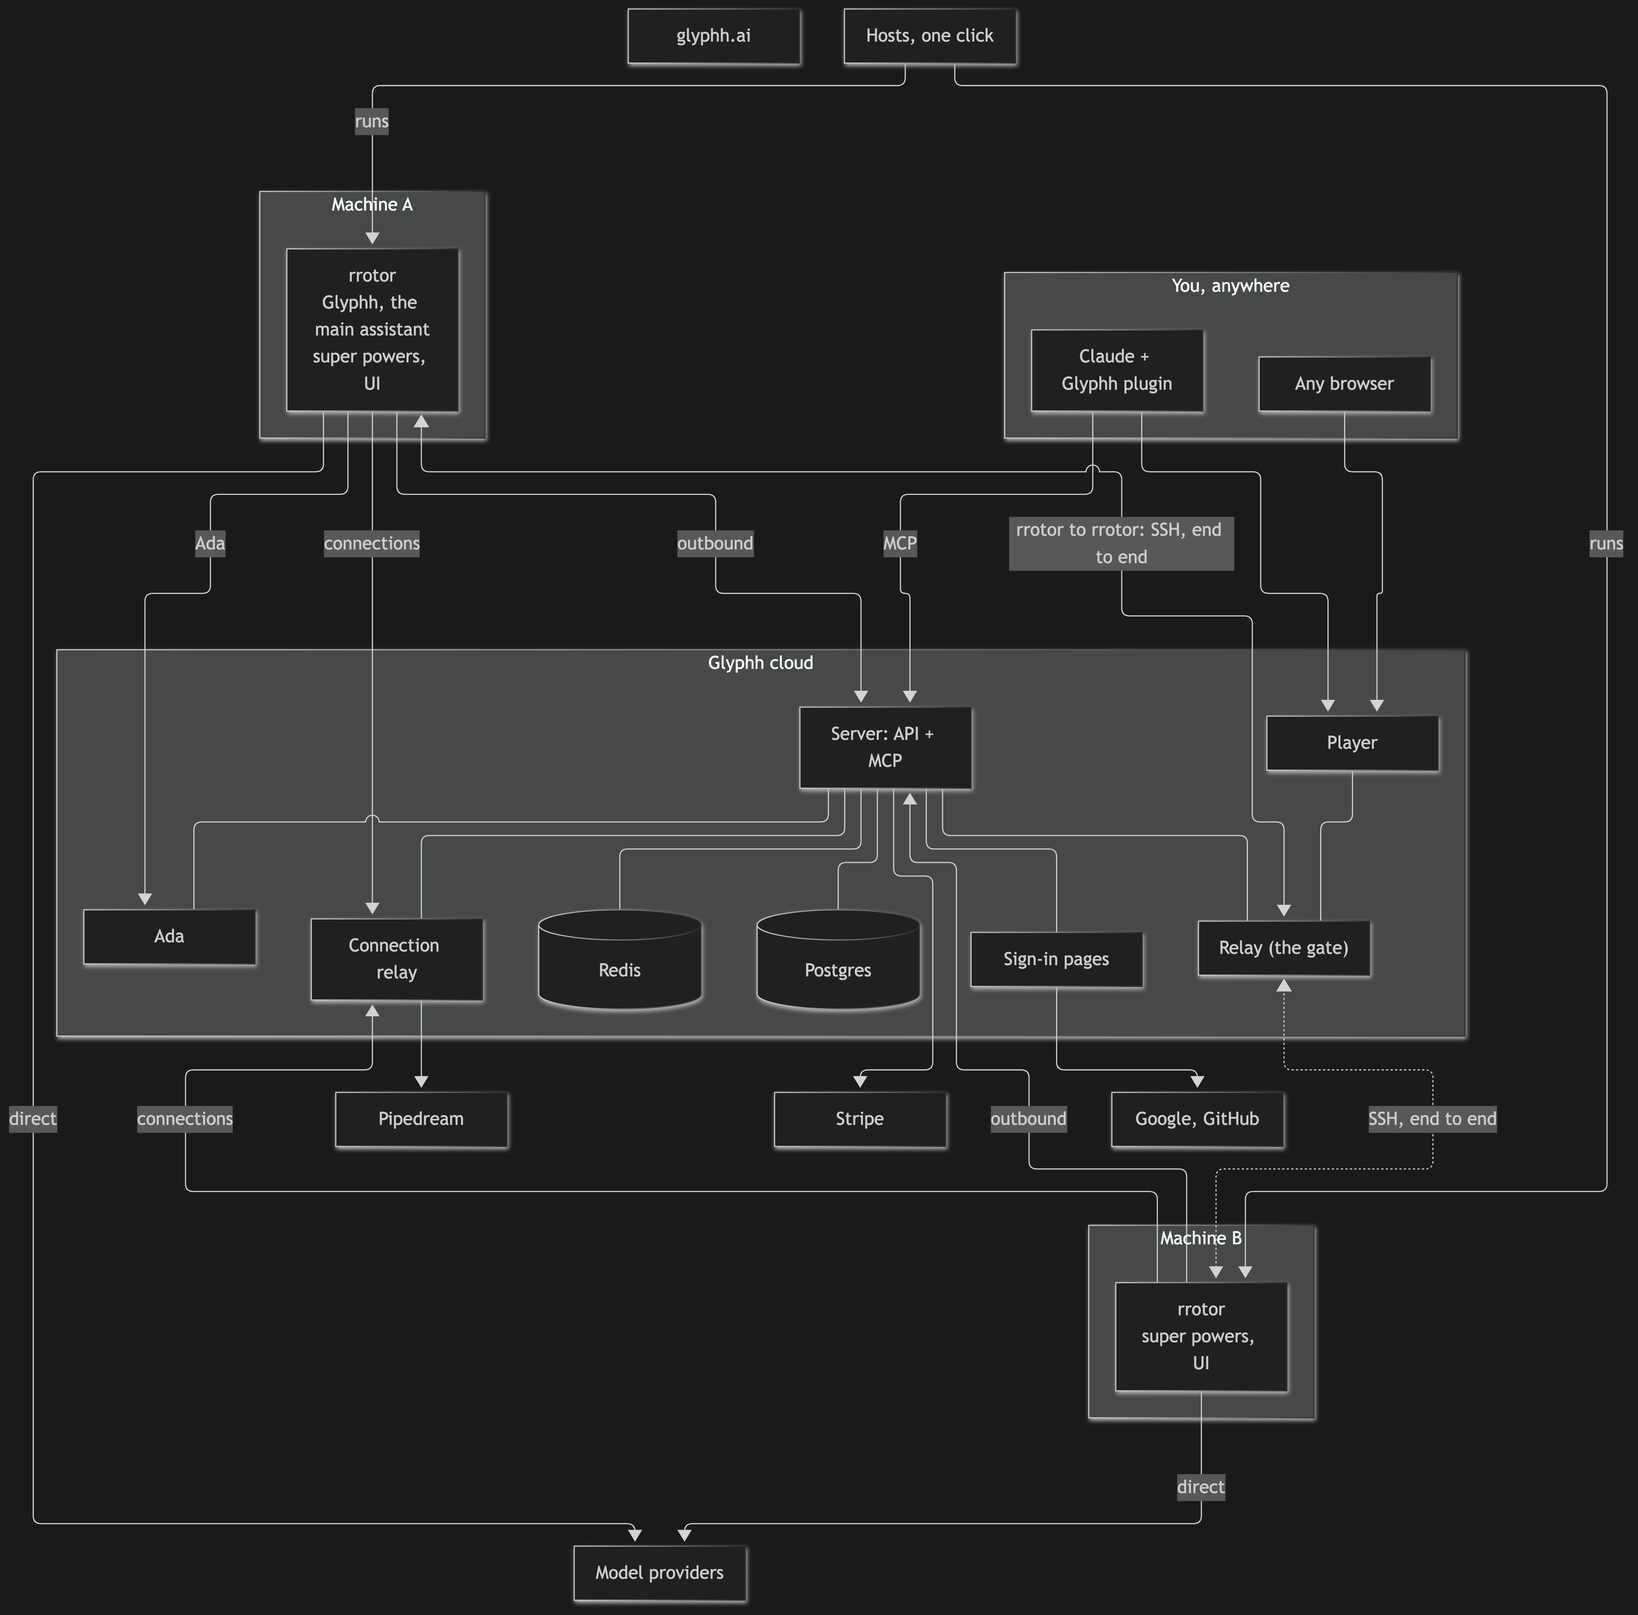
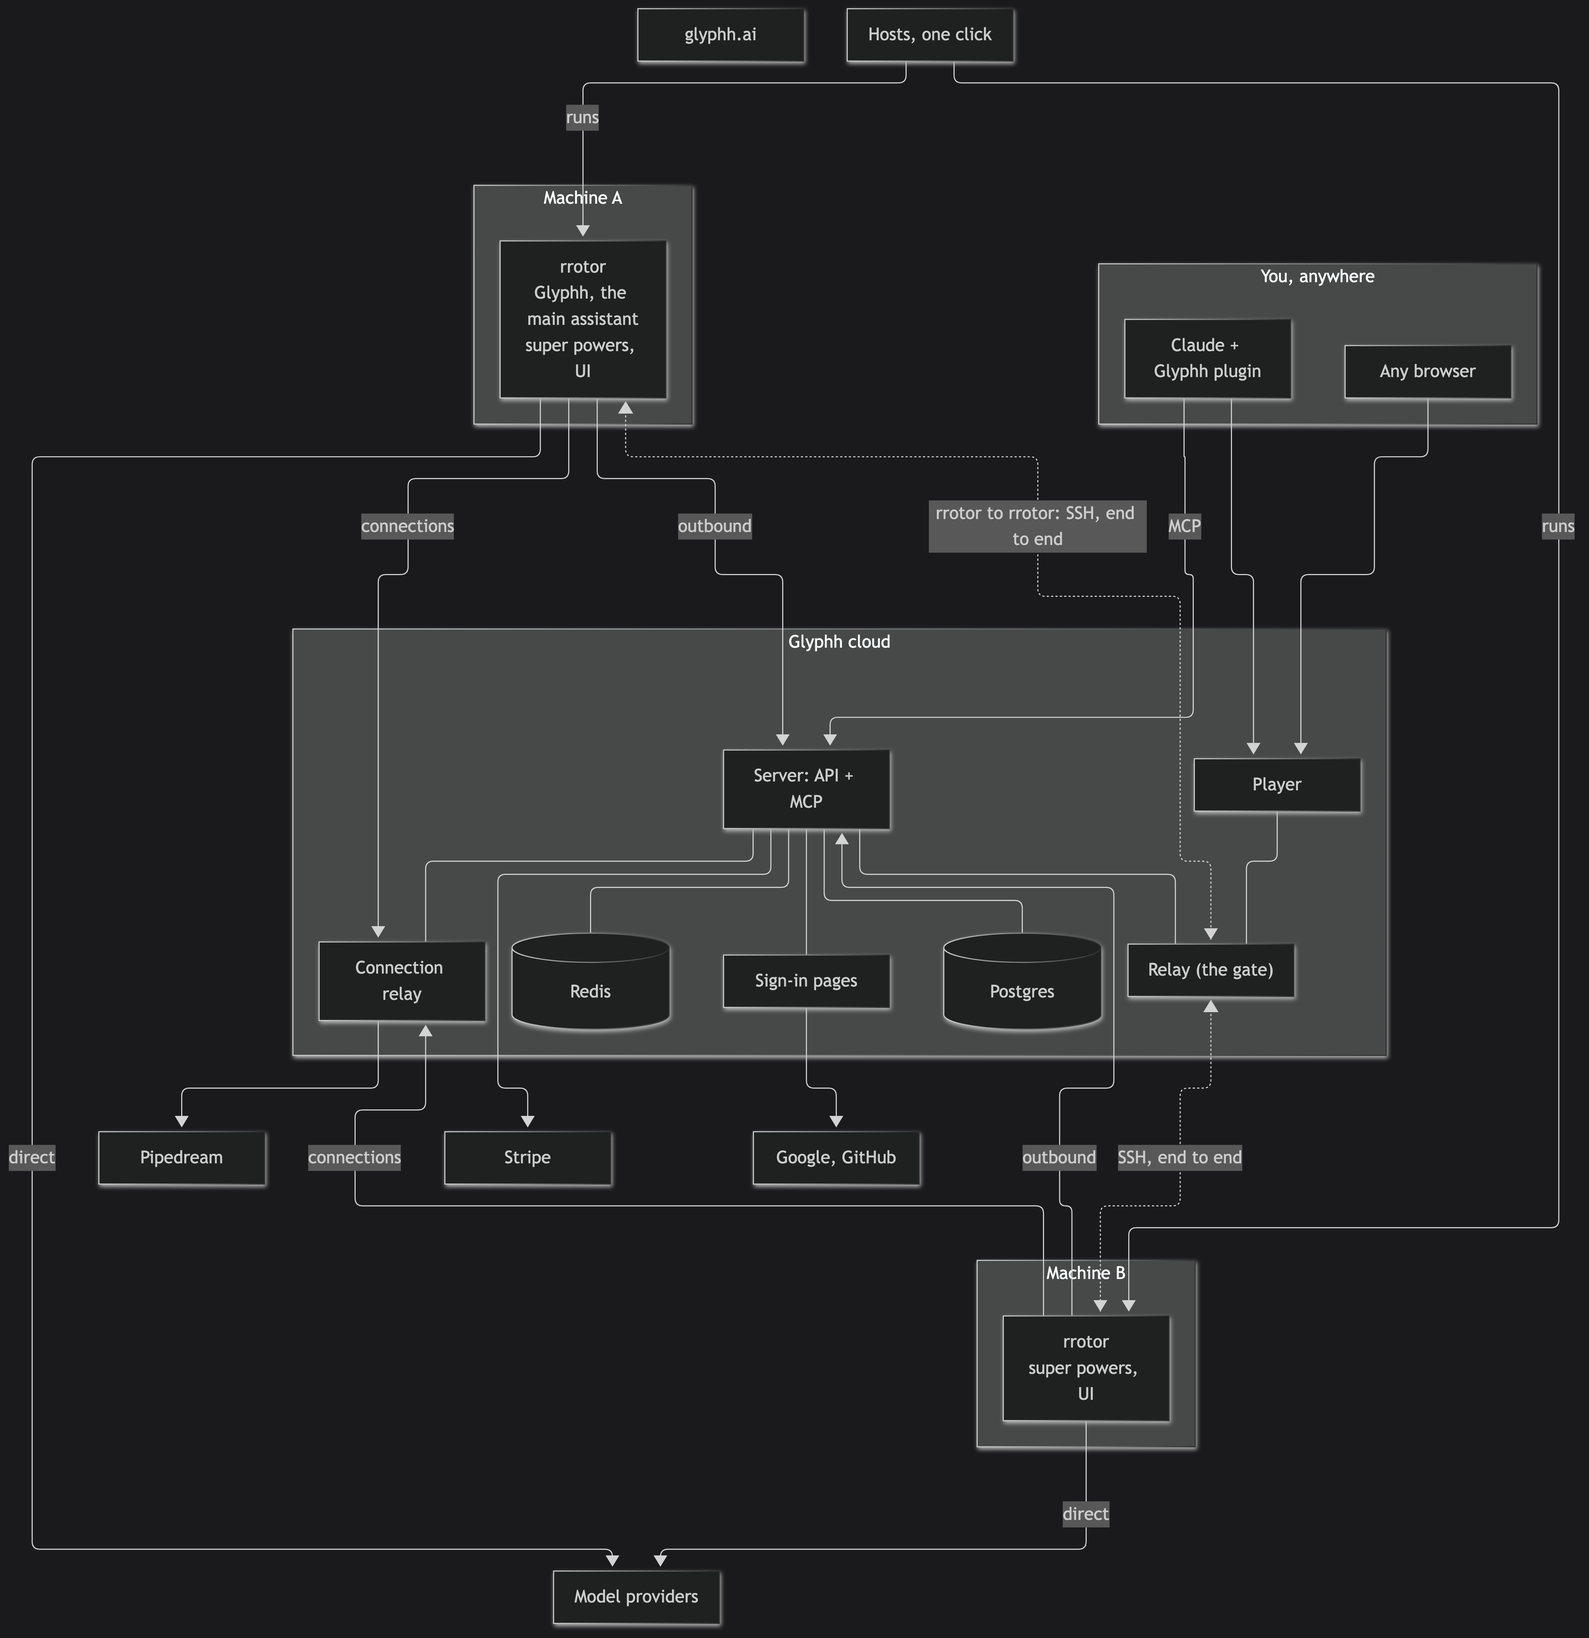
Memory and Ada out, for now: Glyphh keeps no memory of its own (a member adds it as a power), Ada comes later

diff --git a/docs/data-model.md b/docs/data-model.md
@@ -99,7 +99,6 @@ erDiagram
         bool limit_connections "true = only the org's allowed connections"
         text image_key "the org's picture, in object storage"
         bool member_api_keys "members may make their own API keys"
-        jsonb memory_policy "per lane (search, capture, sensitive): member, on or off"
         timestamptz created_at
     }
 
@@ -152,12 +151,6 @@ erDiagram
         text voice_mode "off, push_to_talk, continuous"
         bool voice_autoplay
         bool voice_brief "spoken replies kept short"
-        bool memory_search "search and use past sessions"
-        bool memory_capture "make memory from sessions"
-        bool memory_sensitive "include sensitive topics"
-        uuid embeddings_model_id FK "the model memory is indexed with; null = off"
-        timestamptz memory_policy_accepted_at
-        text memory_policy_version
         bool sandbox_strict "runs reach only the allowed hosts"
         text[] allowed_hosts "hosts every sandboxed run may reach"
         timestamptz updated_at
@@ -167,7 +160,7 @@ erDiagram
         uuid id PK
         uuid org_id FK
         uuid user_id FK "whose it is: every power is one user's, for now"
-        text kind "model, connection, folder, browser, ada, skill, task, plugin, loop"
+        text kind "model, connection, folder, browser, skill, task, plugin, loop"
         text name "unique for its owner"
         timestamptz disabled_at "set while a limit leaves it out: it stops working and can only be deleted; cleared when allowed again"
         text disabled_reason "which limit left it out"
@@ -380,19 +373,16 @@ erDiagram
         uuid id PK
         uuid org_id FK
         uuid user_id FK "whose call it was"
-        text kind "connection or ada"
-        uuid power_id FK "the connection power, or the Ada model power"
-        text service "a connection's service (gmail, slack, ...); for Ada, the model's id; kept as called"
-        text tool "the tool or Ada operation: gmail-send-email, query, record, ..."
+        uuid power_id FK "the connection power"
+        text service "a connection's service (gmail, slack, ...); kept as called"
+        text tool "the tool called: gmail-send-email, ..."
         uuid super_power_id FK "the super power that called it"
         uuid machine_id FK "the machine it ran on"
         uuid run_id FK "the run it was part of"
         text status "ok, error, refused"
         text error "the reason, for error and refused"
         int duration_ms "the time the call took, timed by the server"
-        int input_tokens "Ada: the arguments as JSON, counted by the server"
-        int output_tokens "Ada: the result, counted by the server"
-        int credits "connection: max(1, ceil(seconds / 30)); Ada: its tokens at the Ada price; 0 when refused"
+        int credits "max(1, ceil(seconds / 30)) for a call made; 0 when refused"
         int request_bytes
         int response_bytes
         timestamptz started_at
@@ -580,7 +570,7 @@ A user belongs to one org and has one role in it:
 
 The profile is the user's first name, last name, email and profile image. A Google or GitHub sign-in finds the user by the provider's own id for them (below, Signing in), never by email alone. A user is in at most one team (`team_id`).
 
-**user_settings** holds the member's own settings from the old app's Settings pages: theme, notifications, how new sessions start, voice, memory and its consent, and the sandbox's allowed hosts. What only ever applied to the desktop app's windows (workspaces, tabs, layouts, the dock, window sizes) is gone; a machine's own settings (its granted folders, its local ports, its shell) live on the machine.
+**user_settings** holds the member's own settings from the old app's Settings pages: theme, notifications, how new sessions start, voice, and the sandbox's allowed hosts. Glyphh keeps no memory of its own; memory is a power a member adds if they want it. What only ever applied to the desktop app's windows (workspaces, tabs, layouts, the dock, window sizes) is gone; a machine's own settings (its granted folders, its local ports, its shell) live on the machine.
 
 ## Teams: limiting models and connections
 
@@ -628,7 +618,6 @@ Every power is a row in `powers` (who owns it, its kind and name), and one row i
 - **A model** is a provider, the provider's model id and the API key (an optional base URL for providers that need one). rrotor calls the provider directly with that key: Glyphh never sits in the call, never sees its rates or prices, and never counts its tokens. What a model costs is between the person and their provider. A customer who wants limits or access rules puts their own AI gateway in front, through the base URL.
 - **A connection** is a user's own account at Pipedream: the service it connects to (Gmail, Slack, ...) and the account id. Pipedream calls a service an app; Glyphh says service, because an app is something else here. Glyphh stores no sign-in for it: Pipedream holds the account and its tokens, under the Glyphh user's id as Pipedream's external user id. Linking one: the server asks Pipedream for a connect token for that user, and Pipedream's own page does the sign-in. Using one: the loop reaches Pipedream's MCP server (`remote.mcp.pipedream.net/v3`) with the Pipedream project, environment, service (`x-pd-app-slug`) and the user's id as headers, and a short-lived Pipedream access token the server mints for the run (Glyphh's Pipedream client credentials never leave the server). Only Glyphh's connections are used: a super power's loop gets exactly its connections, nothing of the loop's own.
 - **A folder** is a path on one machine (`machine_id`): the same path on two machines is two folders, and a folder grant says read or write.
-- **An Ada model** is a member's own, like every power: the model's id on Glyphh's Ada service (`am_...`). Its kernel and records stay on Glyphh's servers; a super power is granted it, and a task calls it through the server, billed per token. Shared through Discover like any power.
 - **A browser** is a browser profile on one rrotor: its cookies and signed-in sessions live there and never leave that machine or reach the server. It is granted like a folder, so one super power's signed-in sites are never another's.
 - **Skills, tasks and plugins** are bundles of files in object storage (`bundle_key`); whether each save keeps a version is still open.
 - **A secret** (a key, a sign-in) is encrypted at rest, never returned after it is saved, and handed only to the member's own runtime when a super power runs.
@@ -699,7 +688,7 @@ What Pipedream charges Glyphh (Connect, Startup plan): $99 a month billed annual
 
 ## Usage
 
-Every usage event is logged in one place: the server, which every billed call passes through. Two kinds are billed: a connection call (rrotor → connector → server → Pipedream), a cost Glyphh pays, and an Ada call (rrotor → server → Ada, our own kernel), which costs Glyphh only its compute. Every one goes through the server, so the server sees each call whole: who, through which connection, from which super power, on which machine, how long, and what it cost. Nothing is reported by the runtime about itself, so a modified rrotor cannot under-report.
+Every usage event is logged in one place: the server's connection relay. A connection call is the only thing billed, a cost Glyphh pays, and every one goes through the server (rrotor → connector → server → Pipedream), so the server sees each call whole: who, through which connection, from which super power, on which machine, how long, and what it cost. Nothing is reported by the runtime about itself, so a modified rrotor cannot under-report.
 
 One call, as the relay handles it:
 
@@ -711,7 +700,6 @@ The check runs before the cost is known, so calls already in flight when the bal
 
 - **usage_events** is append only: never updated, never deleted by a request. It holds what was called and how it went, **never what went through it**: no arguments, no results, no message bodies. Those are the member's own data, and they stay between the runtime and Pipedream.
 - **Model calls are not usage.** They go straight to the provider on the member's key, and Glyphh never sees them. Jev is one of them: a TypeSafe model the member adds with their own key, never on Glyphh's key, never through the server, never charged.
-- **An Ada call is priced on its tokens:** input is its arguments as JSON, output its result, both counted by the server with one tokenizer; the cost is the larger of the tokens at the Ada price and a floor per call. The old server's prices are the start: Ada $2 per million tokens in and $10 out with a $0.0005 floor; a published Ada model a cent per million each way. How that price is stated in credits is still open.
 - **Operational logs are separate:** request logs and traces go to OpenTelemetry, tagged by org; they are not billing and do not decide a charge.
 - **Size:** the table is partitioned by month on `created_at`, indexed by org and time, and by org, user and time, so every page reads one org's range.
 

diff --git a/docs/status.md b/docs/status.md
@@ -7,6 +7,7 @@ As of 2026-10-11. The rule: the data model is drawn first, then built in the ord
 - **Server** (`glyphh-ai/server`): Python, FastAPI, SQLAlchemy over asyncpg, Postgres 17. One schema applied at boot under an advisory lock (no migrations until relaunch). `GET /v1/health` and the stateless MCP endpoint at `/mcp`. CI runs ruff and the tests in Docker on every push and publishes the image on main.
 - **Tables:** `plans` (seeded: Free, Solo, Basic, Pro, Enterprise, with their Stripe prices), `orgs` (Glyphh, the parent org, seeded), `users`, `tokens`.
 - **SDKs** (`glyphh-ai/glyphh`): TypeScript and Python, generated from the server's OpenAPI spec, with health as the first call; both suites run in Docker against the server.
+- **Not in Glyphh for now:** memory (a member adds it as a power if they want it) and Ada (later).
 - **Docs:** this site (architecture, data model, this page).
 
 The repos `glyphh-ai/app` and `glyphh-ai/platform` are no longer needed: the UI lives in rrotor, the sign-in pages in the server.
@@ -26,7 +27,7 @@ On the [data model](data-model.md), in the order they were drawn:
 - **People and machines:** `invites`, `machines` (with where they run, their SSH key, fingerprint and shell switch), `machine_sign_ins`, `fence_events` (what rrotor reports when a run reaches past its fence), `api_keys`; folders are on a machine, and folder grants are read or write.
 - **Signing in and Stripe:** `sign_in_identities` (Google and GitHub by the provider's own id), `oauth_clients` and `oauth_codes` (the plugin's sign-in), `launch_tickets` (open one machine's UI, once, for a minute), `stripe_events` (each webhook handled once).
 
-On the [architecture](architecture.md): voice (speech in and out on the member's own models, streamed between the browser and rrotor), the main assistant, Glyphh, in rrotor on one of three loops (Claude Code or Codex on the member's subscription, or the Glyphh loop on their own key; none priced by Glyphh), orchestrating through rrotor's MCP, no desktop app and no platform (every rrotor serves Glyphh's UI, opened in Claude or any browser through the player; sign-in once on the server; four sign-in pages), tasks with Jev (a model on the member's key) and Ada (our kernel, billed per token), dependencies and Discover, one full rrotor everywhere (a laptop is just another Docker host), Redis for live state (which process holds each machine, heartbeats, messages between processes), rrotor as a Linux VM (everything Glyphh runs is inside it, reached only by grants), usage and billing pages in rrotor's UI, adding a model in rrotor's UI, what rrotor carries (Postgres with pgvector, a Next.js server, the loop), and machine to machine over SSH through the relay.
+On the [architecture](architecture.md): voice (speech in and out on the member's own models, streamed between the browser and rrotor), the main assistant, Glyphh, in rrotor on one of three loops (Claude Code or Codex on the member's subscription, or the Glyphh loop on their own key; none priced by Glyphh), orchestrating through rrotor's MCP, no desktop app and no platform (every rrotor serves Glyphh's UI, opened in Claude or any browser through the player; sign-in once on the server; four sign-in pages), tasks with Jev (a model on the member's key), dependencies and Discover, one full rrotor everywhere (a laptop is just another Docker host), Redis for live state (which process holds each machine, heartbeats, messages between processes), rrotor as a Linux VM (everything Glyphh runs is inside it, reached only by grants), usage and billing pages in rrotor's UI, adding a model in rrotor's UI, what rrotor carries (Postgres with pgvector, a Next.js server, the loop), and machine to machine over SSH through the relay.
 
 ## Open
 
@@ -34,8 +35,6 @@ Decisions still to make. Where a proposal is written, it is a proposal, not a de
 
 - **Conversations:** not drawn. Proposal: the server keeps each conversation's record (title, super power, machine, run, status, times), rrotor keeps the messages, and rrotor's UI opens them through the player through the relay.
 - **Codex hosting terms:** confirm OpenAI's terms for hosting Codex signed in with a member's ChatGPT subscription; Glyphh accepts Anthropic's Commercial Terms for Claude Code.
-- **Memory:** the member's memory settings are drawn; where memory itself lives (rrotor, most likely) is not.
-- **Ada in credits:** how the Ada price per token is stated in credits.
 - **Super powers in Discover:** whether a super power becomes one more power type (`super_powers` folds into `powers`) or keeps its own table and is listed the same way.
 - **Requirements and listings:** the tables for power dependencies and the Discover catalog, drawn when built.
 - **The rrotor definition:** what a super power's definition holds (its workflows, pipelines and screens), how one super power's data is kept apart from another's in rrotor's Postgres, and how its screens are laid out inside Glyphh's UI.

diff --git a/docs/architecture.md b/docs/architecture.md
@@ -15,12 +15,10 @@ flowchart TB
         Live[("Redis")]
         Relay["Relay (the gate)"]
         ConnRelay["Connection relay"]
-        Ada["Ada"]
         Server --- DB
         Server --- Live
         Server --- Relay
         Server --- ConnRelay
-        Server --- Ada
         Server --- Pages
         Player --- Relay
     end
@@ -51,7 +49,6 @@ flowchart TB
     RB -- "direct" --> Providers
     RA -- "connections" --> ConnRelay
     RB -- "connections" --> ConnRelay
-    RA -- "Ada" --> Ada
     ConnRelay --> Pipedream
     Hosts -- "runs" --> RA
     Hosts -- "runs" --> RB
@@ -86,7 +83,6 @@ A single-deployment, multi-tenant cloud SaaS, headless first: every capability i
 
 - **rrotor → CLI or model → provider:** the thinking goes straight to the provider, on the member's own subscription (Claude Code, Codex) or key (the Glyphh loop). Glyphh never sees it and never prices it.
 - **rrotor → connector → server:** every connection call goes through the server, which relays it to Pipedream and counts it, because each one is a cost Glyphh pays.
-- **rrotor → Ada → server:** every Ada call goes to Glyphh's own Ada kernel, which never leaves Glyphh's servers, and is billed per token.
 - **Jev is a model, on the first path:** the member adds TypeSafe's Jev with their own key, and rrotor calls TypeSafe directly. It is never on Glyphh's key, never through the server, and never charged.
 
 ### Models
@@ -135,15 +131,19 @@ Glyphh has the super power editor: the skills and tools to create a super power,
 A task is a program rrotor runs, by hand, from a super power or on a clock, and it reaches the world only through its context:
 
 - `ctx.decide`: Jev, a model the member added with their own key, called directly;
-- `ctx.ada`: one of the member's Ada models (query, record, veto, ...), through the server, billed per token;
 - `ctx.agents.<slot>`: the model filling each of its slots;
 - `ctx.connections.<service>`: its connections, through the server, counted;
 - `ctx.rpa`: the browser, on a machine that has one;
 - `ctx.checkpoint` and `ctx.log`: resume where it stopped, and its run's log.
 
-**Dependencies.** A power declares what it needs: a task that needs Gmail and Slack, a chat model for its writing step, Jev and an Ada model says so. Adding it to a super power grants all of it at once; whatever the member does not have yet is asked for right there (connect Gmail, add a key, pick an Ada model), and it cannot run until everything is in place, naming what is missing. Jev and Ada are dependencies like any model.
+**Dependencies.** A power declares what it needs: a task that needs Gmail and Slack, a chat model for its writing step and Jev says so. Adding it to a super power grants all of it at once; whatever the member does not have yet is asked for right there (connect Gmail, add a key), and it cannot run until everything is in place, naming what is missing. Jev is a dependency like any model.
 
-**Discover.** Glyphh and orgs publish powers (skills, tasks, Ada models, ...) and super powers to a catalog, each a bundle with its type and its dependencies; an org's listings are visible to its own members. Installing one copies it into the member's own powers, linked to the listing and its version so updates can be offered, and brings its dependencies with it as above. The tables for requirements and listings are drawn when this is built.
+**Discover.** Glyphh and orgs publish powers (skills, tasks, ...) and super powers to a catalog, each a bundle with its type and its dependencies; an org's listings are visible to its own members. Installing one copies it into the member's own powers, linked to the listing and its version so updates can be offered, and brings its dependencies with it as above. The tables for requirements and listings are drawn when this is built.
+
+### Not in Glyphh, for now
+
+- **Memory:** Glyphh has none of its own. A member who wants memory adds it as a power or a super power of their own.
+- **Ada** comes later; the basics first.
 
 ### What a super power can be
 
